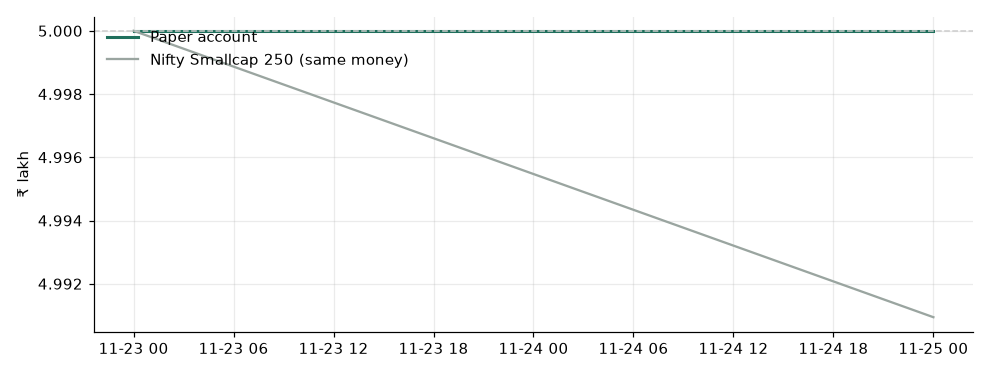
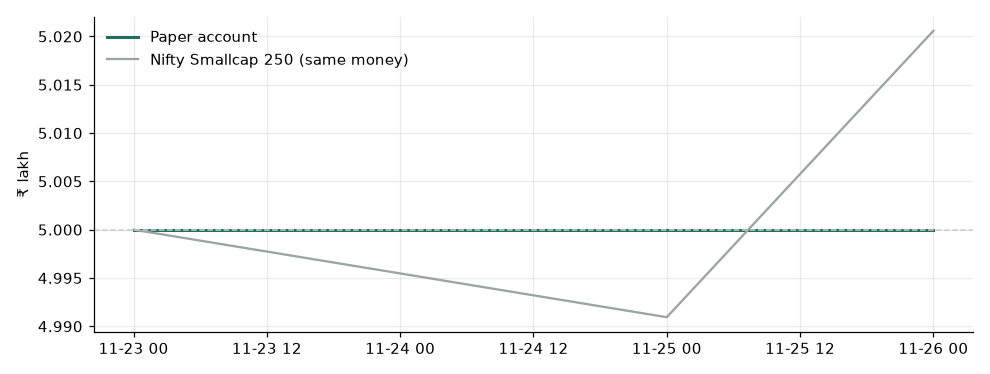
Paper trading: 2026-11-26

diff --git a/dashboard.html b/dashboard.html
@@ -4,8 +4,8 @@ table{border-collapse:collapse;width:100%;font-size:13px}th,td{padding:6px 8px;b
 th{background:#eef1ee;cursor:pointer}.tw{overflow-x:auto;background:#fff;border:1px solid #dde1dd;border-radius:8px}.muted{color:#5b6560}
 @media (prefers-color-scheme:dark){body{background:#111513;color:#e5eae7}.tw{background:#181d1a;border-color:#2b322e}th{background:#1f2622}td,th{border-color:#2b322e}}</style></head>
 <body><div class="w"><h1>Dividend run-up paper trading</h1><p class="muted">Updated after the close on 26 Nov 2026. Paper money only.</p>
-<div class='tw'><table><thead><tr><th></th><th> </th></tr></thead><tbody><tr><td>Started</td><td>2026-11-23 with ₹5,00,000 (paper money)</td></tr><tr><td>Equity now</td><td>₹5,00,000 (+0.0%)</td></tr><tr><td>Closed trades</td><td>0</td></tr><tr><td>Yearly rate so far</td><td>shown after 3 months</td></tr><tr><td>Nifty Smallcap 250 since start</td><td>-0.2%</td></tr><tr><td>Open positions</td><td>0 using ₹0 of margin</td></tr><tr><td>Per-share limit this quarter</td><td>₹50,000 (2026Q4)</td></tr><tr><td>Backtest expectation</td><td>about +2.3% per trade on the position, about 60% winners</td></tr></tbody></table></div>
-<h2>Equity</h2><svg viewBox="0 0 800 220" width="100%" style="background:#fff0;border:1px solid #dde1dd;border-radius:8px"><polyline fill="none" stroke="#1f6f5c" stroke-width="2.5" points="20.0,110.0 780.0,110.0"/></svg>
+<div class='tw'><table><thead><tr><th></th><th> </th></tr></thead><tbody><tr><td>Started</td><td>2026-11-23 with ₹5,00,000 (paper money)</td></tr><tr><td>Equity now</td><td>₹5,00,000 (+0.0%)</td></tr><tr><td>Closed trades</td><td>0</td></tr><tr><td>Yearly rate so far</td><td>shown after 3 months</td></tr><tr><td>Nifty Smallcap 250 since start</td><td>+0.4%</td></tr><tr><td>Open positions</td><td>0 using ₹0 of margin</td></tr><tr><td>Per-share limit this quarter</td><td>₹50,000 (2026Q4)</td></tr><tr><td>Backtest expectation</td><td>about +2.3% per trade on the position, about 60% winners</td></tr></tbody></table></div>
+<h2>Equity</h2><svg viewBox="0 0 800 220" width="100%" style="background:#fff0;border:1px solid #dde1dd;border-radius:8px"><polyline fill="none" stroke="#1f6f5c" stroke-width="2.5" points="20.0,110.0 400.0,110.0 780.0,110.0"/></svg>
 <h2>Open positions</h2><p class='muted'>None yet.</p><h2>Dividends being watched</h2><p class='muted'>None yet.</p><h2>Closed trades</h2><p class='muted'>None yet.</p>
 <h2>Month by month</h2><p class='muted'>None yet.</p><h2>Skipped and why</h2><div class='tw'><table><thead><tr><th>Stock</th><th>Ex-date</th><th>Dividend %</th><th>Mcap (₹ cr)</th><th>Why skipped</th></tr></thead><tbody><tr><td>FUSIONCX</td><td>2026-11-27</td><td>0.26</td><td></td><td>market cap unknown (not in the NSE/AMFI share list); dividend 0.262% is below 0.5%</td></tr></tbody></table></div>
 <p class="muted">Research and paper trading only, not investment advice.</p></div>

diff --git a/README.md b/README.md
@@ -10,7 +10,7 @@ _Updated after the close on 26 Nov 2026. Paper money only: no real orders are pl
 | Equity now | ₹5,00,000 (+0.0%) |
 | Closed trades | 0 |
 | Yearly rate so far | shown after 3 months |
-| Nifty Smallcap 250 since start | -0.2% |
+| Nifty Smallcap 250 since start | +0.4% |
 | Open positions | 0 using ₹0 of margin |
 | Per-share limit this quarter | ₹50,000 (2026Q4) |
 | Backtest expectation | about +2.3% per trade on the position, about 60% winners |
